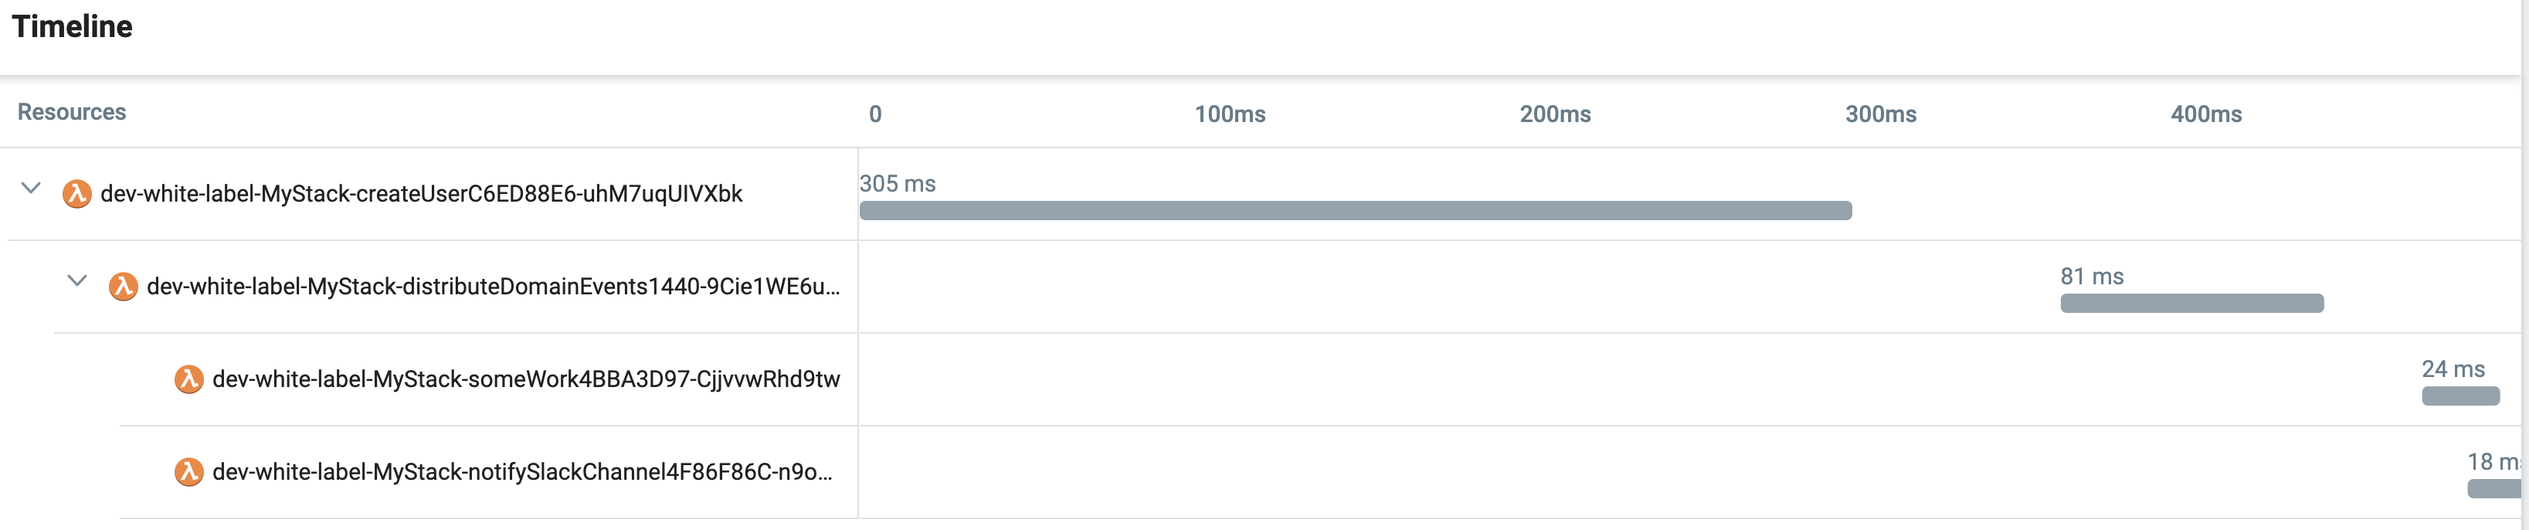
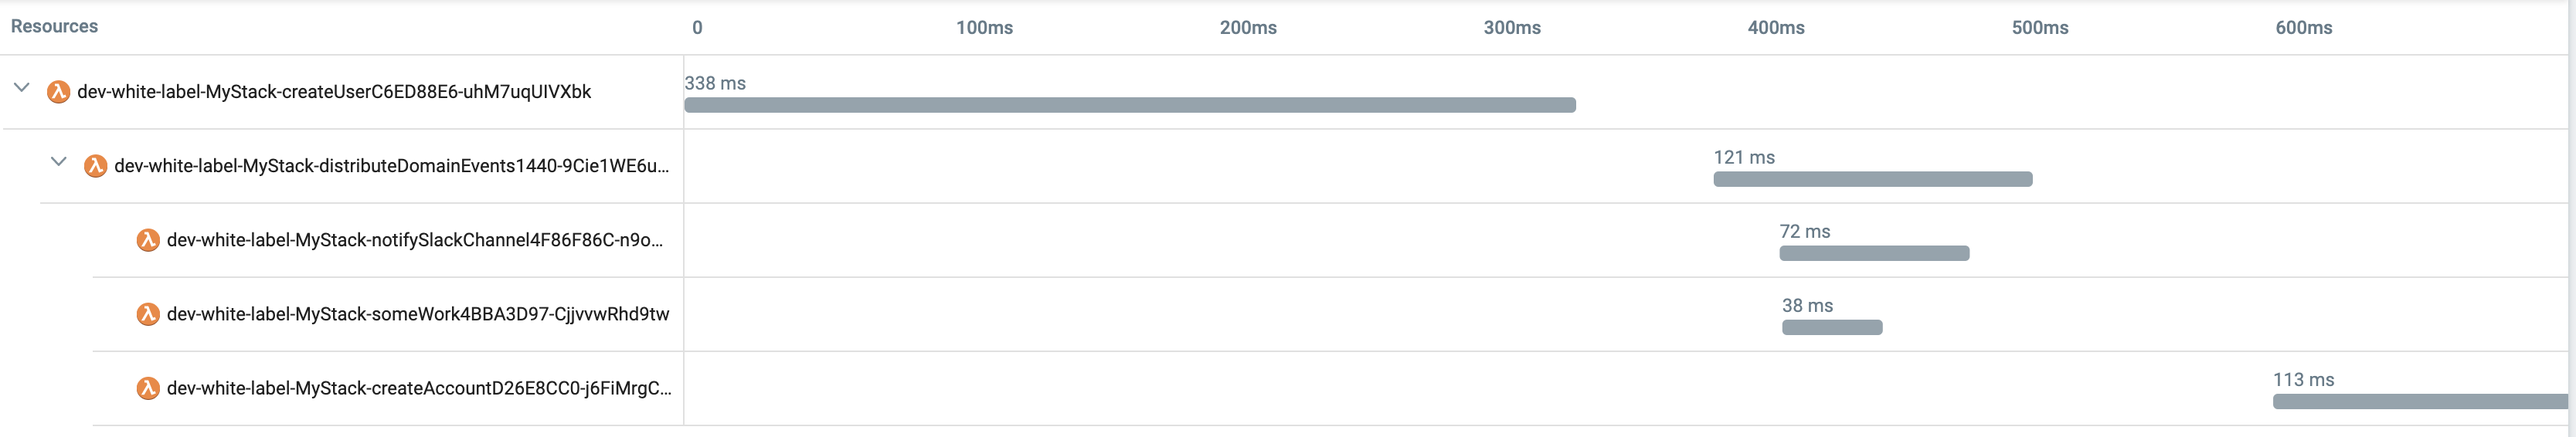
docs: update README
Remove unused dependency

diff --git a/README.md b/README.md
@@ -9,7 +9,7 @@ Domain events (e.g. [UserCreatedEvent](src/modules/users/domain/events/UserCreat
 Communication in the same module is given as an example but using domain events for intra-module/app communication inside a same domain model may involve adding an indirection that doesn't add value and a direct/explicit flow is more convenient.
 
 The lambda entry point for `CreateUser` use case is [src/modules/users/useCases/createUser/index.ts](src/modules/users/useCases/createUser/index.ts), there we:
-* Create [CreateUser](src/modules/users/useCases/createUser/CreateUser.ts)
+* Create [CreateUser](src/modules/users/useCases/createUser/CreateUser.ts) controller
 * In `CreateUser.constructor` we register `UserCreatedEvent` to an intermediate lambda [DistributeDomainEvents](src/shared/infra/dispatchEvents/DistributeDomainEvents.ts) that will invoke all its subscribers (`CreateAccount`, `NotifySlackChannel` and `SomeWork` lambdas).
 
 This is the transaction tracing from [Lumigo](https://lumigo.io):
@@ -22,7 +22,7 @@ This is the transaction tracing from [Lumigo](https://lumigo.io):
 
 ## Timelines
 
-For the first request all four lambdas have cold start and they take ~2s:
+If it's been some time since last request, we get cold starts and the execution of lambdas takes ~3s, below we can spot 3 cold starts:
 
 <br />
 <p align="center">
@@ -30,7 +30,7 @@ For the first request all four lambdas have cold start and they take ~2s:
 </p>
 <br />
 
-If we repeat a request in the next 5m, we don't have cold starts and they take ~500ms:
+If we repeat a request in the next 5m, we don't have cold starts and they take ~700ms:
 
 <br />
 <p align="center">
@@ -40,34 +40,53 @@ If we repeat a request in the next 5m, we don't have cold starts and they take ~
 
 ## Tests
 
-Unit tests added:
+Unit tests (with faked repos):
 
-- Value Objects: [UserName](src/modules/users/domain/UserEmail.unit.ts), [UserEmail](src/modules/users/domain/UserEmail.unit.ts), [UserPassword](src/modules/users/domain/UserPassword.unit.ts), [Alias](src/modules/users/domain/Alias.unit.ts)
-- Aggregate [User](src/modules/users/domain/User.unit.ts)
-- Use cases/controllers: [CreateUser](src/modules/users/useCases/createUser/CreateUser.unit.ts) (with faked repo), [NotifySlackChannel](src/modules/notification/useCases/notifySlackChannel/NotifySlackChannel.unit.ts), [SomeWork](src/modules/users/useCases/someWork/SomeWork.unit.ts)
+- Value Objects: 
+    - Users: [UserName](src/modules/users/domain/UserEmail.unit.ts), [UserEmail](src/modules/users/domain/UserEmail.unit.ts), [UserPassword](src/modules/users/domain/UserPassword.unit.ts), [Alias](src/modules/users/domain/Alias.unit.ts)
+    - Accounts: [Amount](src/modules/accounts/domain/Amount.unit.ts), [Description](src/modules/accounts/domain/Description.unit.ts)
+- Aggregates:
+    - Users: [User](src/modules/users/domain/User.unit.ts)
+    - Accounts: [Account](src/modules/accounts/domain/Account.ts) (with internal entity [Transaction](src/modules/accounts/domain/Transaction.unit.ts))
+- Use cases/controllers: 
+    - Users: [CreateUser](src/modules/users/useCases/createUser/CreateUser.unit.ts) , [SomeWork](src/modules/users/useCases/someWork/SomeWork.unit.ts)
+    - Notification: [NotifySlackChannel](src/modules/notification/useCases/notifySlackChannel/NotifySlackChannel.unit.ts)
+    - Accounts: [CreateTransaction](src/modules/accounts/useCases/createTransaction/CreateTransaction.unit.ts), [GetAccountByUserId](src/modules/accounts/useCases/getAccountByUserId/GetAccountByUserId.unit.ts), [Transfer](src/modules/accounts/useCases/transfer/Transfer.unit.ts)
 
-Integration tests:
+Integration tests (real repos):
 
-- Domain event registration and dispatching [CreateUserEvents](src/modules/users/useCases/createUser/CreateUserEvents.int.ts)
-- [CreateUser](src/modules/users/useCases/createUser/CreateUser.int.ts) (with real repo)
+- Users:
+  - Domain event registration and dispatching [CreateUserEvents](src/modules/users/useCases/createUser/CreateUserEvents.int.ts)
+  - [CreateUser](src/modules/users/useCases/createUser/CreateUser.int.ts)
+- Accounts:
+  - [Transfer](src/modules/accounts/useCases/transfer/Transfer.int.ts)
+  - [GetAccountByUserId](src/modules/accounts/useCases/getAccountByUserId/GetAccountByUserId.int.ts)
+  - [CreateTransaction](src/modules/accounts/useCases/createTransaction/CreateTransaction.int.ts)
 
 E2E test:
 
-- [CreateUser](src/modules/users/useCases/createUser/CreateUser.e2e.ts)
+- Users:
+    - [CreateUser](src/modules/users/useCases/createUser/CreateUser.e2e.ts)
+- Accounts:
+    - [Transfer](src/modules/accounts/useCases/transfer/Transfer.e2e.ts)
+    - [GetAccountByUserId](src/modules/accounts/useCases/getAccountByUserId/GetAccountByUserId.e2e.ts)
+    - [CreateTransaction](src/modules/accounts/useCases/createTransaction/CreateTransaction.e2e.ts)
 
 ## Stack
 
 * DB: PostgreSQL [CockroachDB](https://www.cockroachlabs.com) Serverless
 * ORM: [Sequelize](https://sequelize.org)
 * IaC: [SST Serverless Stack](https://sst.dev)
-* AWS services: Lambda, API Gateway, Systems Manager Parameter Store 
+* AWS services: Lambda, AppSync, Systems Manager Parameter Store 
 * Testing: Jest
 
 I've used **SST Serverless Stack** as it allows debugging lambda code locally while being invoked remotely by resources in AWS.
 
 ## Credits
 
-I started this project using Khalil Stemmler's [white-label](https://github.com/stemmlerjs/white-label) one, applied some concepts based on [Vladimir Khorikov](https://enterprisecraftsmanship.com) courses where he tackles DDD in a great way and then I turned it into serverless.
+I started this project using Khalil Stemmler's [white-label](https://github.com/stemmlerjs/white-label) `users` module and applied some concepts based on [Vladimir Khorikov](https://enterprisecraftsmanship.com) courses where he tackles DDD in a great way.
+
+I also added `accounts` module, refactored from REST to GraphQL API, turned it into serverless and wrote a bunch of tests.
 
 ## Instructions
 
